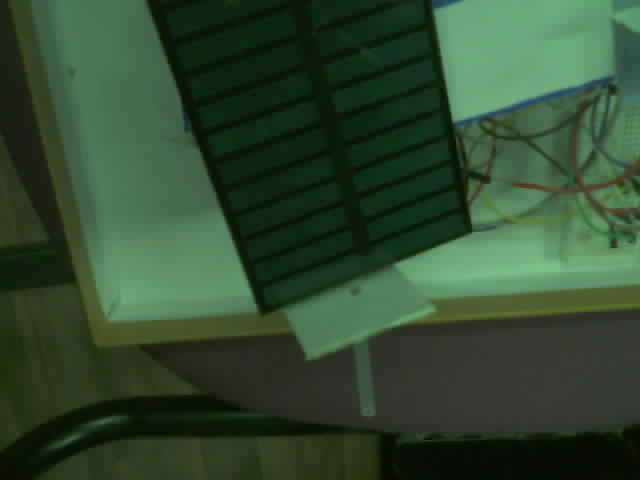
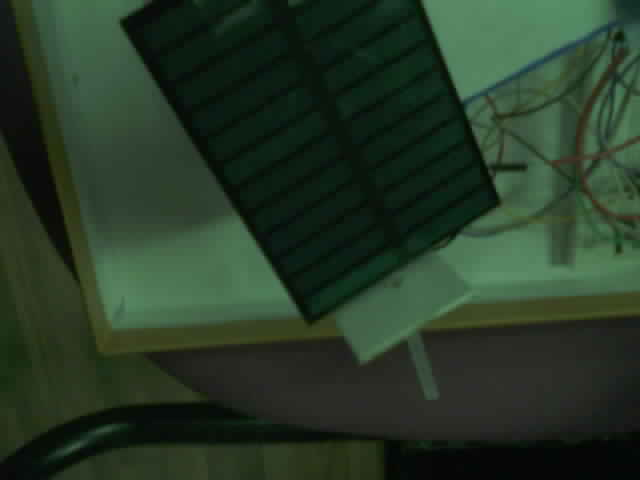
Add API

diff --git a/api/camera/upload.ts b/api/camera/upload.ts
@@ -1,5 +1,4 @@
 import { createClient } from '@supabase/supabase-js';
-import { setCachedAnalysis } from './analysis-result';
 
 const supabaseUrl = process.env.SUPABASE_URL || process.env.VITE_SUPABASE_URL || '';
 const supabaseAnonKey = process.env.SUPABASE_ANON_KEY || process.env.VITE_SUPABASE_ANON_KEY || '';
@@ -22,8 +21,6 @@ function readRawBody(req: any): Promise<Buffer> {
     req.on('error', reject);
   });
 }
-
-export let lastImageBase64 = '';
 
 export default async function handler(req: any, res: any) {
   res.setHeader('Access-Control-Allow-Origin', '*');
@@ -52,8 +49,6 @@ export default async function handler(req: any, res: any) {
       return res.status(400).json({ error: 'No image data provided' });
     }
 
-    lastImageBase64 = imageBase64;
-
     if (!geminiApiKey) {
       const mockResult = {
         condition: 'unknown',
@@ -65,7 +60,6 @@ export default async function handler(req: any, res: any) {
         timestamp: new Date().toISOString(),
         device_id: deviceId
       };
-      setCachedAnalysis(mockResult);
       return res.status(200).json({ status: 'success', analysis: mockResult });
     }
 
@@ -136,29 +130,40 @@ Set triggerCleaning to true ONLY for heavily_dusty or bird_dropping conditions.`
     }
 
     const result = { ...analysis, device_id: deviceId, timestamp: new Date().toISOString() };
-    setCachedAnalysis(result);
 
     // Persist to Supabase if configured
     if (supabase && deviceId) {
-      await supabase.from('panel_analysis').insert({
-        device_id:        deviceId,
-        condition:        result.condition,
-        confidence:       result.confidence,
-        label:            result.label,
-        details:          result.details,
-        recommendation:   result.recommendation,
-        trigger_cleaning: result.triggerCleaning,
-        analyzed_at:      result.timestamp,
-      });
-
-      if (result.triggerCleaning) {
-        await supabase.from('alerts').insert({
-          device_id:   deviceId,
-          severity:    'warning',
-          message:     `AI Panel Inspection: ${result.label}. ${result.recommendation}`,
-          is_resolved: false,
-          created_at:  result.timestamp,
+      try {
+        const { error: insertError } = await supabase.from('panel_analysis').insert({
+          device_id:        deviceId,
+          condition:        result.condition,
+          confidence:       result.confidence,
+          label:            result.label,
+          details:          result.details,
+          recommendation:   result.recommendation,
+          trigger_cleaning: result.triggerCleaning,
+          analyzed_at:      result.timestamp,
         });
+
+        if (insertError) {
+          console.error('[Supabase] panel_analysis insert error:', insertError);
+        }
+
+        if (result.triggerCleaning) {
+          const { error: alertError } = await supabase.from('alerts').insert({
+            device_id:   deviceId,
+            severity:    'warning',
+            message:     `AI Panel Inspection: ${result.label}. ${result.recommendation}`,
+            is_resolved: false,
+            created_at:  result.timestamp,
+          });
+
+          if (alertError) {
+            console.error('[Supabase] alerts insert error:', alertError);
+          }
+        }
+      } catch (dbErr) {
+        console.error('[Supabase] DB exception during insertion:', dbErr);
       }
     }
 

diff --git a/api/camera/analysis-result.ts b/api/camera/analysis-result.ts
@@ -7,9 +7,6 @@ const supabase = (supabaseUrl && supabaseAnonKey)
   ? createClient(supabaseUrl, supabaseAnonKey) 
   : null;
 
-// Ephemeral in-memory store fallback for same-process development testing
-let lastAnalysis: any = null;
-
 export default async function handler(req: any, res: any) {
   res.setHeader('Access-Control-Allow-Origin', '*');
   res.setHeader('Access-Control-Allow-Methods', 'GET, OPTIONS');
@@ -34,9 +31,9 @@ export default async function handler(req: any, res: any) {
         .order('analyzed_at', { ascending: false })
         .limit(1);
 
-      if (error) throw error;
-
-      if (data && data.length > 0) {
+      if (error) {
+        console.error('Supabase query error in analysis-result:', error);
+      } else if (data && data.length > 0) {
         const record = data[0];
         const analysis = {
           condition: record.condition,
@@ -52,12 +49,9 @@ export default async function handler(req: any, res: any) {
       }
     }
 
-    return res.status(200).json({ status: 'success', analysis: lastAnalysis });
+    return res.status(200).json({ status: 'success', analysis: null });
   } catch (err: any) {
-    return res.status(500).json({ status: 'error', message: err.message });
+    console.error('Analysis-result API error:', err);
+    return res.status(200).json({ status: 'success', analysis: null });
   }
-}
-
-export function setCachedAnalysis(analysis: any) {
-  lastAnalysis = analysis;
 }

diff --git a/api/camera/image.ts b/api/camera/image.ts
@@ -1,5 +1,3 @@
-import { lastImageBase64 } from './upload';
-
 export default async function handler(req: any, res: any) {
   res.setHeader('Access-Control-Allow-Origin', '*');
   res.setHeader('Access-Control-Allow-Methods', 'GET, OPTIONS');
@@ -13,16 +11,9 @@ export default async function handler(req: any, res: any) {
   }
 
   try {
-    if (!lastImageBase64) {
-      // Fallback: Redirect to the placeholder image using standard HTTP redirect
-      res.writeHead(302, { Location: 'https://images.unsplash.com/photo-1508514177221-188b1cf16e9d?w=600&auto=format&fit=crop' });
-      return res.end();
-    }
-
-    const imgBuffer = Buffer.from(lastImageBase64, 'base64');
-    res.setHeader('Content-Type', 'image/jpeg');
-    res.setHeader('Cache-Control', 'no-store, max-age=0');
-    return res.status(200).send(imgBuffer);
+    // Fallback: Redirect to the placeholder image using standard HTTP redirect
+    res.writeHead(302, { Location: 'https://images.unsplash.com/photo-1508514177221-188b1cf16e9d?w=600&auto=format&fit=crop' });
+    return res.end();
   } catch (err: any) {
     return res.status(500).json({ error: err.message });
   }